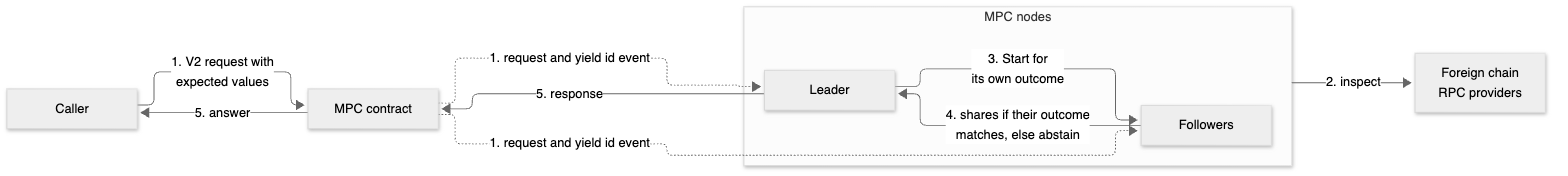
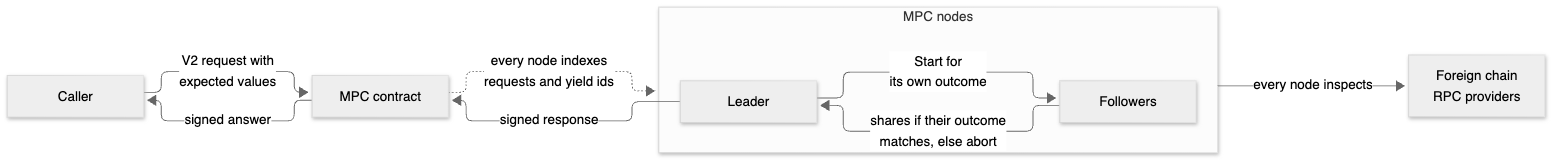
docs: note the Read RPC name and redraw the overview in the signed outcomes design
The doc notes that the new method is named read_rpc and keeps calling it V2 for comparison with V1. The overview figure shows the relations between caller, contract, leader, followers and providers without step numbers, and the summary and the backup leader definition are shorter.

diff --git a/docs/design/signed-foreign-transaction-outcomes/signed-foreign-transaction-outcomes.md b/docs/design/signed-foreign-transaction-outcomes/signed-foreign-transaction-outcomes.md
@@ -2,6 +2,8 @@
 
 **Status:** Draft for discussion · **Author:** Haiyue Chen (with Claude) · **Date:** 28 September 2026, revised 18 November 2026
 
+**Note on naming:** the new caller facing method is named `read_rpc`. For ease of comparing the new method to current V1 foreign transaction verification, this doc still calls it `verify_foreign_transaction_v2`.
+
 ## Summary
 
 Today a foreign transaction request is signed only when the transaction checks out. Anything
@@ -24,7 +26,7 @@ request still times out.
 
 The main points of the design:
 
-- Callers opt in through a new method, `verify_foreign_transaction_v2`. V1 is unchanged.
+- Callers opt in through a new method, `read_rpc`. `verify_foreign_transaction` (V1) is unchanged.
 - Every V2 answer names the one yield it answers, so on NEAR an old negative can never answer a
   newer request.
 - Every V2 answer records the request's block height, and nodes sign only within 200 blocks of
@@ -32,8 +34,7 @@ The main points of the design:
 - The caller states the values it expects. Nodes check them, so a verified answer confirms
   exactly those values.
 - An honest leader signs only what it found, and an honest follower signs only if it found the same. So the
-  signers of one session always agree on the message, with no extra round. With fewer than t malicious nodes, a
-  signature shows that at least one honest node found that outcome.
+  signers of one session always agree on the message, with no extra round.
 - Each leader makes up to three attempts, and backup leaders start on a fixed schedule.
 - An inconclusive outcome at any node raises a warning, and so does every inconclusive a leader
   signs.
@@ -48,7 +49,7 @@ The main points of the design:
 | Session | One run of the threshold signing protocol, for one message with one asset. |
 | Attempt | One session a leader starts for a request. |
 | Leader | The node that starts an attempt. An honest node leads only from its turn on, and starts no attempt once an answer has landed. |
-| Backup leader | A later node in the failover order: three backups follow the first leader. Each node counts turns from when it indexed the request. The first leader's turn starts then, and it acts once the request's block is final, well within one failover interval. Each backup's turn starts one failover interval after the previous leader's. |
+| Backup leader | A later node in the queue's failover order. It leads only if no answer has landed when its turn starts. |
 | t, s, n | t is the signing threshold. Every asset has exactly t holders. s is the number of nodes that support the request's chain, and n the number of participants. |
 
 ---
